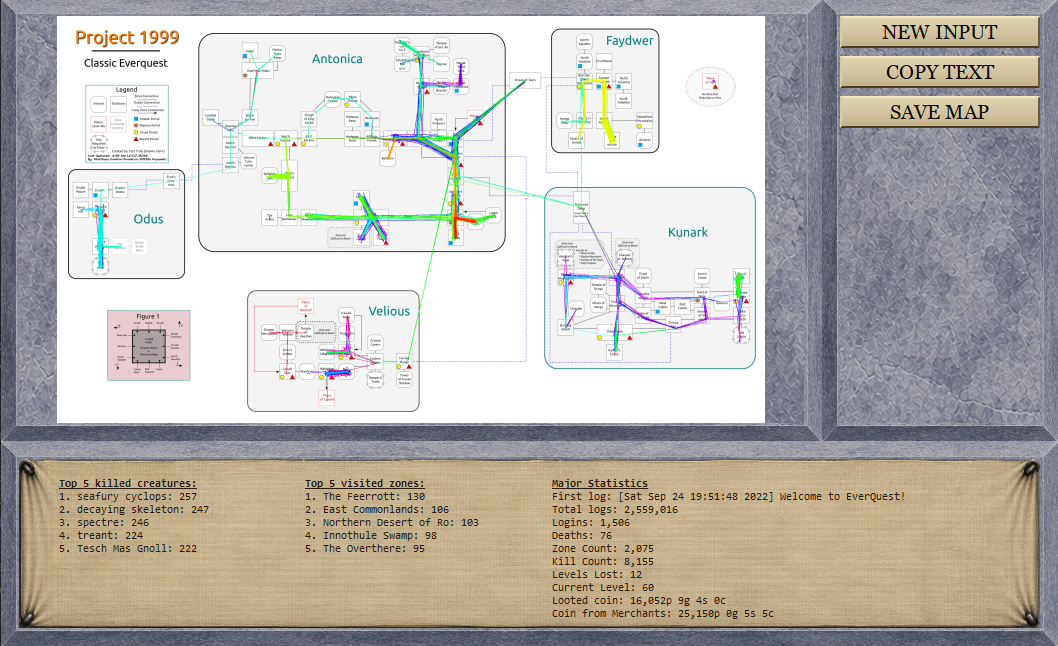
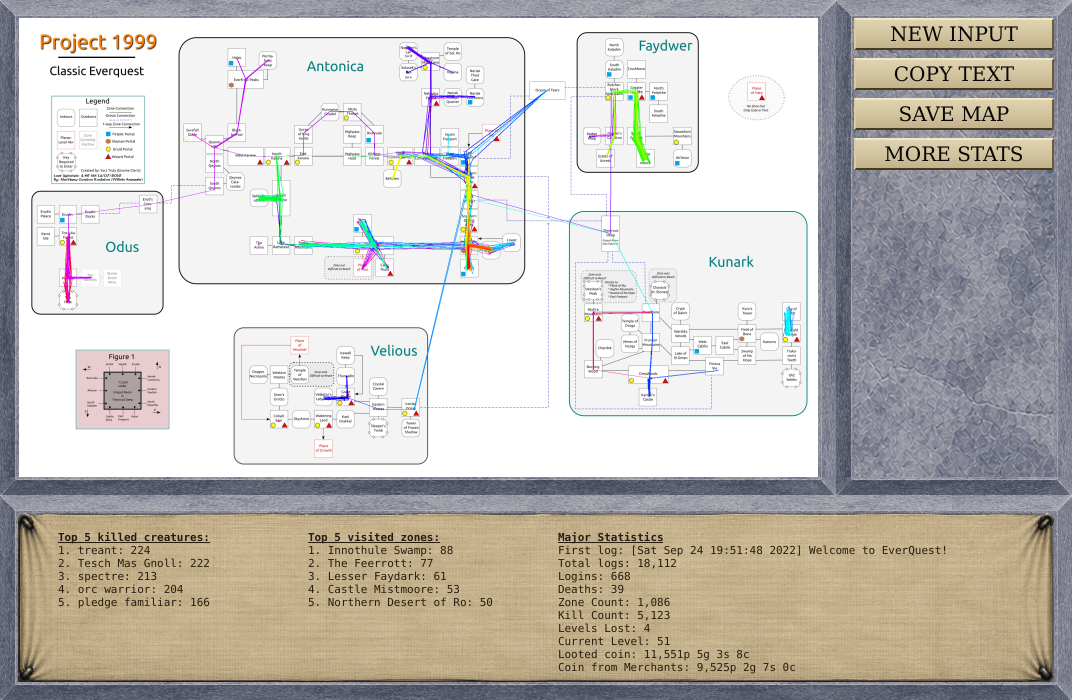
docs: describe MORE STATS view and refresh results screenshot
Adds README sections explaining what's on the results page (top kills,
top zones, major stats, button column) and what the MORE STATS dialog
contains (top 25 zones/creatures/spells and max hit by damage type).
Replaces example.PNG with a current capture that shows the MORE STATS
button alongside the other controls.

https://claude.ai/code/session_01CcE6qGSfuADfQaeukDNanK

diff --git a/README.md b/README.md
@@ -3,7 +3,7 @@
 Generate a visual travel map and play summary from your EverQuest character's
 log files. Drop in your logs, pick your character, click Generate.
 
-![Sample travel map for Gorrek on Project 1999](example.PNG)
+![Results window for Gorrek on Project 1999 — rendered travel map, top kills, top zones, major statistics, and the NEW INPUT / COPY TEXT / SAVE MAP / MORE STATS buttons](example.PNG)
 
 [![tests](https://github.com/ajbtech/EQ-Travel-Map/actions/workflows/test.yml/badge.svg)](https://github.com/ajbtech/EQ-Travel-Map/actions/workflows/test.yml)
 [![License: MIT](https://img.shields.io/badge/License-MIT-yellow.svg)](LICENSE)
@@ -20,6 +20,33 @@ summary of kills, deaths, level-ups, looted coin, and merchant earnings.
 The map shown above was generated from the bundled sample log
 (`samples/sample_eqlog_Gorrek_P1999Green.txt`), a real Project 1999 character
 trimmed down to ~1.3 MB so the project ships with a working first-run example.
+
+### What you see on the output page
+
+The results window has three things side-by-side under the rendered map:
+
+- **Top 5 killed creatures** and **Top 5 visited zones** — the headline
+  highlights of where you spent your time and what you fought there.
+- **Major Statistics** — first log timestamp, total log lines, logins,
+  deaths, zones visited, kills, levels lost, current level, looted coin,
+  and coin earned from merchants.
+
+Four buttons sit to the right of the map: **NEW INPUT** to parse another
+character, **COPY TEXT** to put the summary on your clipboard, **SAVE MAP**
+to export the rendered PNG anywhere on disk, and **MORE STATS** to open the
+extra-stats window described below.
+
+### Extra stats (MORE STATS button)
+
+Click **MORE STATS** on the results window for a deeper breakdown that
+doesn't fit on the main summary:
+
+- **Top 25 visited zones** — the long tail of where your character has been.
+- **Top 25 killed creatures** — the long tail of what your character has killed.
+- **Top 25 cast spells** — which spells you've leaned on the most.
+- **Max hit by damage type** — your biggest single hit broken down by
+  `slash`, `pierce`, `backstab`, `bash`, `spell`, `crit`, and any other
+  damage types that turned up in the logs.
 
 ---
 
